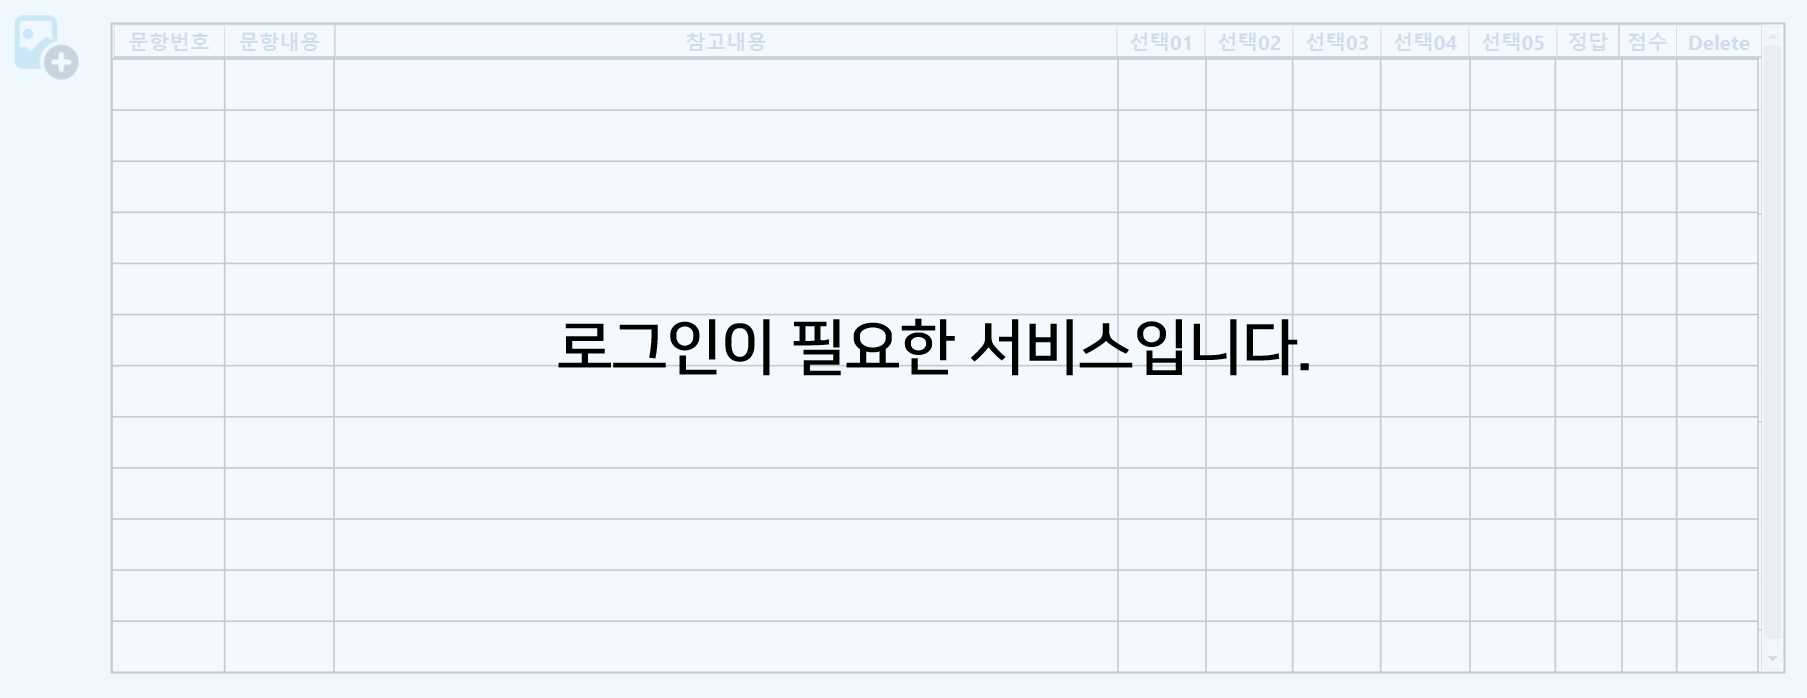
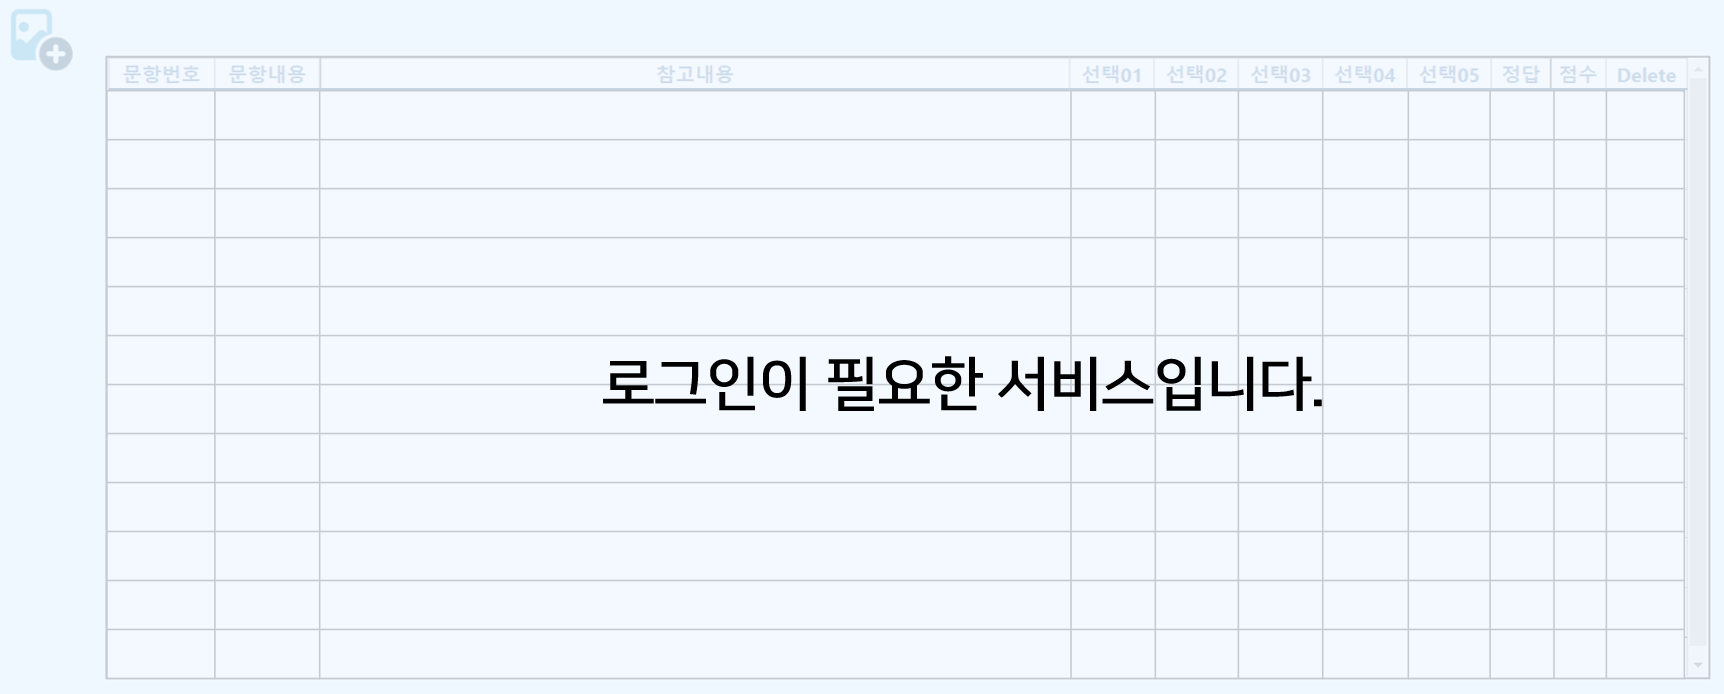
fix: noLogin.PNG 수정

diff --git a/Front/src/pages/MainPage.js b/Front/src/pages/MainPage.js
@@ -437,6 +437,7 @@ const MainPage = (props) => {
           <div
             className="table"
             align="center"
+            title="표 안의 내용을 클릭해 수정하세요"
             style={{
               marginRight: "auto",
               width: "85vw",
@@ -445,7 +446,7 @@ const MainPage = (props) => {
               border: "solid 2px black",
               marginLeft: "auto",
               float: "left",
-              marginTop: "30px",
+              marginTop: "60px"         
             }}
           >
             <Table columns={columns} data={data} />
@@ -454,12 +455,6 @@ const MainPage = (props) => {
             className="confirm"
             style={{ clear: "both", textAlign: "center" }}
           >
-            <button style={btn} onClick={decideData}>
-              확정
-            </button>
-            <button style={btn} onClick={changeData}>
-              수정
-            </button>
           </div>
           <footer
             style={{
@@ -495,11 +490,11 @@ const MainPage = (props) => {
         <div>
           <img src={noLoginImg} alt="noLogin state" onClick={() => {alert("로그인을 해주세요")}}
           style={{
-                width: "91vw",
+                width: "90vw",
                 marginLeft: "auto",
                 marginRight: "auto",
-                paddingLeft: "30px",
-                marginTop: "25px"
+                paddingLeft: "50px",
+                marginTop: "20px"
               }} />
           <footer
             style={{
